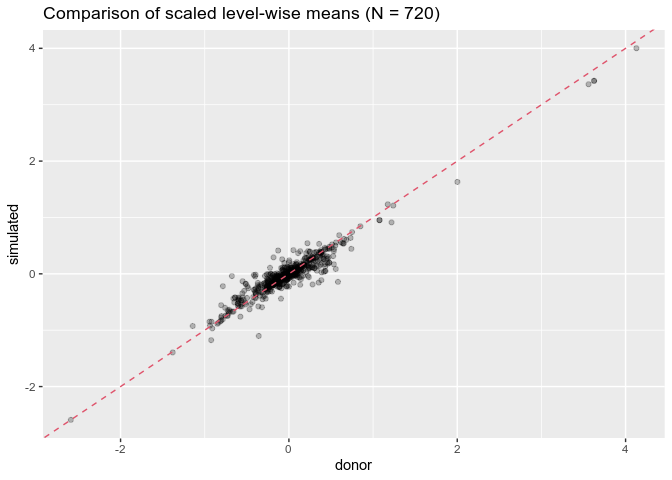
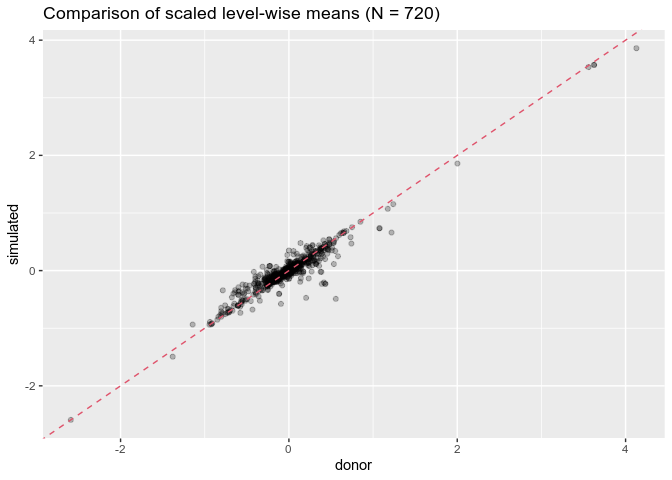
Update README.

diff --git a/README.md b/README.md
@@ -207,18 +207,18 @@ head(sim[, 1:7])
 
                                     education           employment hh_size renter
     1 Bachelor's degree (for example: BA, BS)   Employed full-time       4  FALSE
-    2      Some college or Associate's degree Not employed/retired       2  FALSE
+    2              High school diploma or GED Not employed/retired       2  FALSE
     3      Some college or Associate's degree Not employed/retired       1  FALSE
-    4      Some college or Associate's degree Not employed/retired       2  FALSE
-    5              High school diploma or GED   Employed full-time       4   TRUE
-    6              High school diploma or GED Not employed/retired       2   TRUE
+    4              High school diploma or GED   Employed part-time       2  FALSE
+    5      Some college or Associate's degree   Employed full-time       2   TRUE
+    6      Some college or Associate's degree   Employed part-time       3  FALSE
                          home_type   year_built square_feet
-    1 Single-family detached house 1980 to 1989        6507
-    2 Single-family detached house 1970 to 1979        1487
-    3 Single-family detached house 1950 to 1959         932
-    4 Single-family detached house 1980 to 1989        2512
-    5 Single-family attached house 1960 to 1969        3660
-    6 Single-family attached house 1970 to 1979        1508
+    1 Single-family detached house 2000 to 2009        2913
+    2 Single-family detached house 1990 to 1999        4023
+    3 Single-family detached house 1970 to 1979         861
+    4 Single-family detached house 1950 to 1959        4147
+    5 Single-family detached house  Before 1950        1990
+    6 Single-family detached house 1970 to 1979        1118
 
 **If you run the same code yourself, your results for `sim` *will look
 different*.** This is because each call to `fuse()` produces a different
@@ -237,10 +237,10 @@ proportion of zero values is similar in the donor and simulated data.
 
               hh_size square_feet televisions electricity natural_gas fuel_oil
     donor           0           0      0.0239           0      0.4193   0.9483
-    simulated       0           0      0.0218           0      0.4244   0.9490
+    simulated       0           0      0.0257           0      0.4210   0.9488
               propane propane_btu propane_expend
     donor      0.8992      0.8992         0.8992
-    simulated  0.9012      0.9012         0.9012
+    simulated  0.8924      0.8924         0.8924
 
 Comparatively few households use propane or fuel oil, and almost
 everyone has a television.
@@ -258,10 +258,10 @@ Now, let’s look at the means of the non-zero values.
 
               hh_size square_feet televisions electricity natural_gas fuel_oil
     donor      2.5774    2081.443      2.4195    11028.97    576.6752 502.8666
-    simulated  2.5776    2109.194      2.4265    11229.81    579.4447 510.3228
+    simulated  2.6126    2094.846      2.4276    11118.62    583.3458 470.1199
                propane propane_btu propane_expend
     donor     346.7819    31672.67       672.0280
-    simulated 327.3280    29896.00       641.5715
+    simulated 347.2313    31713.88       669.6607
 
 Notice that the ratio of mean “propane\_btu” to “propane” is the same
 for the donor and simulated datasets (ratio = 91.333). This is as
@@ -288,11 +288,11 @@ sim %>% select(natural_gas, use_ng) %>% distinct() %>% arrange(natural_gas) %>% 
 
       natural_gas use_ng
     1    0.000000  FALSE
-    2    3.461713   TRUE
-    3    3.986444   TRUE
-    4    9.812250   TRUE
-    5   14.130247   TRUE
-    6   15.855222   TRUE
+    2    2.640000   TRUE
+    3    2.964092   TRUE
+    4    3.768143   TRUE
+    5    4.574955   TRUE
+    6    6.972491   TRUE
 
 Next, let’s look at kernel density plots of the non-zero values for the
 continuous variables where this kind of visualization makes sense.
@@ -306,7 +306,7 @@ For the remaining fused variables, we can compare the relative frequency
 is one such comparison for the “insulation” variable.
 
               Not insulated Poorly insulated Adequately insulated Well insulated
-    donor            0.0132           0.1560               0.5011         0.3298
+    donor            0.0155           0.1521               0.5018         0.3306
     simulated        0.0137           0.1597               0.4893         0.3373
 
 This kind of comparison can be extended to all of the fusion variables
@@ -379,7 +379,7 @@ across models, all variables are scaled to zero-mean and unit-variance
 
 ![](man/figures/README-unnamed-chunk-19-1.png)<!-- -->
 
-This exercise yields a total of 170 model terms (including intercepts)
+This exercise yields a total of 176 model terms (including intercepts)
 for which coefficients can be compared. The plot above shows that models
 fit to the simulated data do a good job replicating coefficients derived
 from the original data (correlation = 0.97).
@@ -413,8 +413,8 @@ an estimate of the variance associated with the outcome.
 sapply(sim, function(x) cor(x[c("electricity", "televisions")])[1, 2])
 ```
 
-     [1] 0.3061088 0.3099399 0.3067627 0.2969049 0.3229623 0.3051855 0.3129946
-     [8] 0.3158640 0.3332810 0.3112197
+     [1] 0.3166509 0.3181510 0.3030600 0.3231514 0.3251453 0.2906758 0.3296911
+     [8] 0.2996570 0.3014928 0.3128896
 
 ## Data synthesis
 
@@ -450,7 +450,7 @@ train(data = donor, y = fusion.vars, cores = 1) %>% timeMe()
 ```
 
     elapsed 
-       6.51 
+      7.396 
 
 ``` r
 # cores = 3
@@ -458,7 +458,7 @@ train(data = donor, y = fusion.vars, cores = 3) %>% timeMe()
 ```
 
     elapsed 
-      3.779 
+      5.066 
 
 Binary split decision trees are usually fast, but they can be
 *painfully* slow when there are unordered factor response (fusion)
@@ -485,7 +485,7 @@ train(data = donor, y = fusion.vars, cores = 3, maxcats = NULL) %>% timeMe()
     See 'maxcats' argument in ?train.
 
     elapsed 
-     10.137 
+      9.269 
 
 ``` r
 # maxcats = 10
@@ -493,7 +493,7 @@ train(data = donor, y = fusion.vars, cores = 3, maxcats = 10) %>% timeMe()
 ```
 
     elapsed 
-      5.977 
+      6.599 
 
 The `lasso` argument directs `train()` to use LASSO regression via
 [glmnet](https://cran.r-project.org/web/packages/glmnet/index.html) to
@@ -521,7 +521,7 @@ train(data = donor, y = fusion.vars, cores = 3, lasso = NULL) %>% timeMe()
 ```
 
     elapsed 
-     33.099 
+     39.726 
 
 ``` r
 # lasso = 0.9
@@ -529,6 +529,6 @@ train(data = donor, y = fusion.vars, cores = 3, lasso = 0.9) %>% timeMe()
 ```
 
     elapsed 
-     25.651 
+     29.498 
 
 ### Happy fusing!
